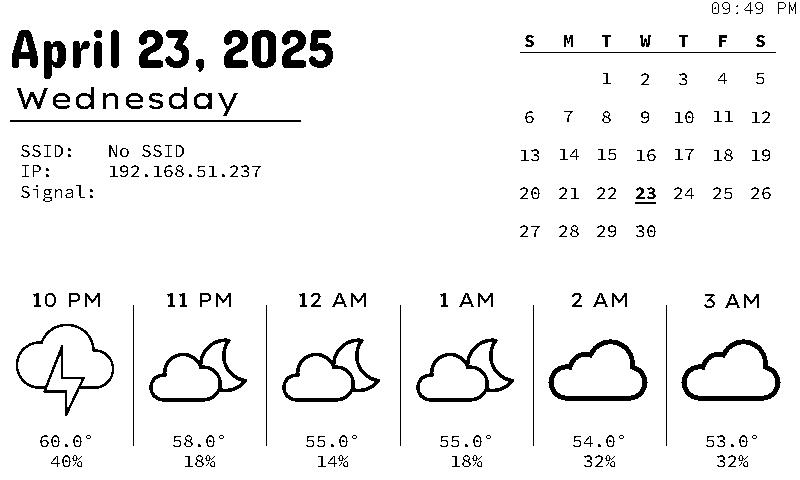
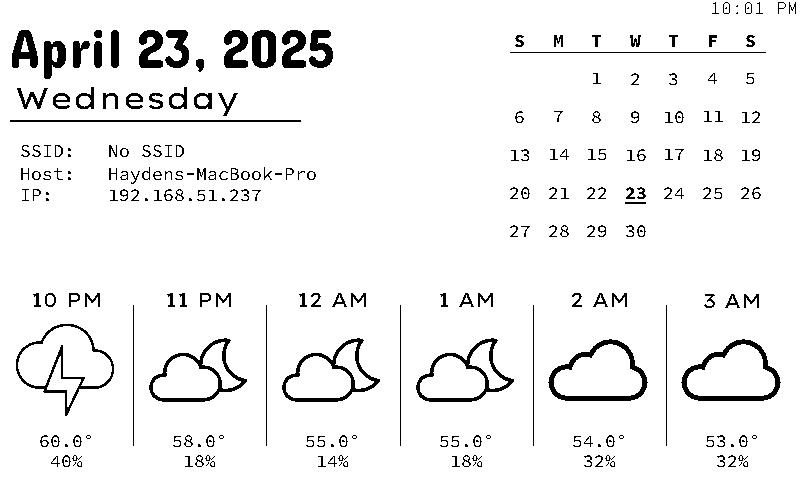
CHanges

diff --git a/display.py b/display.py
@@ -159,16 +159,9 @@ def get_ssid():
     except:
         return "No SSID"
 
-def get_wifi_signal_strength():
-    try:
-        result = subprocess.check_output(["iw", "dev", "wlan0", "link"], text=True)
-        for line in result.splitlines():
-            if "signal:" in line:
-                signal_dbm = line.strip().split("signal:")[1].split()[0]
-                return f"{signal_dbm} dBm"
-        return ""
-    except:
-        return ""
+import socket
+def get_hostname(): 
+    return socket.gethostname().removesuffix(".local")
 
 def getNetwork(draw: ImageDraw.ImageDraw):
     x = 20
@@ -176,13 +169,13 @@ def getNetwork(draw: ImageDraw.ImageDraw):
 
     ip = get_local_ip()
     ssid = get_ssid()
-    strength = get_wifi_signal_strength()
+    hostname = get_hostname()
 
     draw.text((x, y), f"SSID:   {ssid}", "black", SSmono, anchor="lt")
-    y += 20
+    y += 22
+    draw.text((x, y), f"Host:   {hostname}", "black", SSmono, anchor="lt")
+    y += 22
     draw.text((x, y), f"IP:     {ip}", "black", SSmono, anchor="lt")
-    y += 20
-    draw.text((x, y), f"Signal: {strength}", "black", SSmono, anchor="lt")
 
 
 
@@ -194,7 +187,7 @@ def pasteIcon(image: Image.Image, icon: Image.Image, x, y, sx, sy):
 
 def getCalendar(draw: ImageDraw.ImageDraw):
 
-    x = 530
+    x = 520
     y = 40
 
     width = 270
